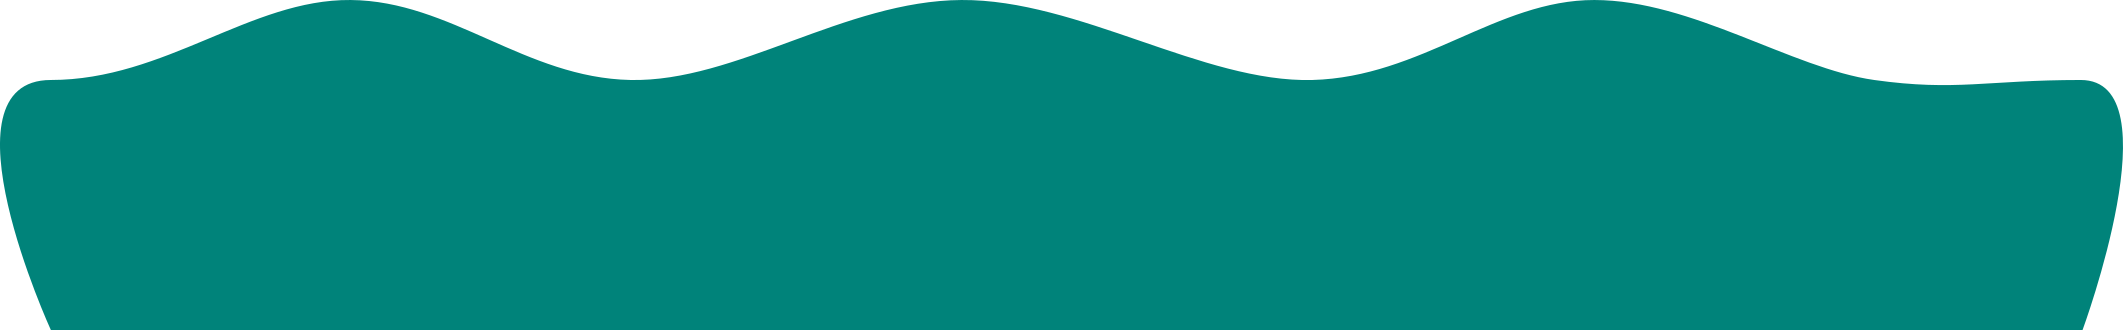
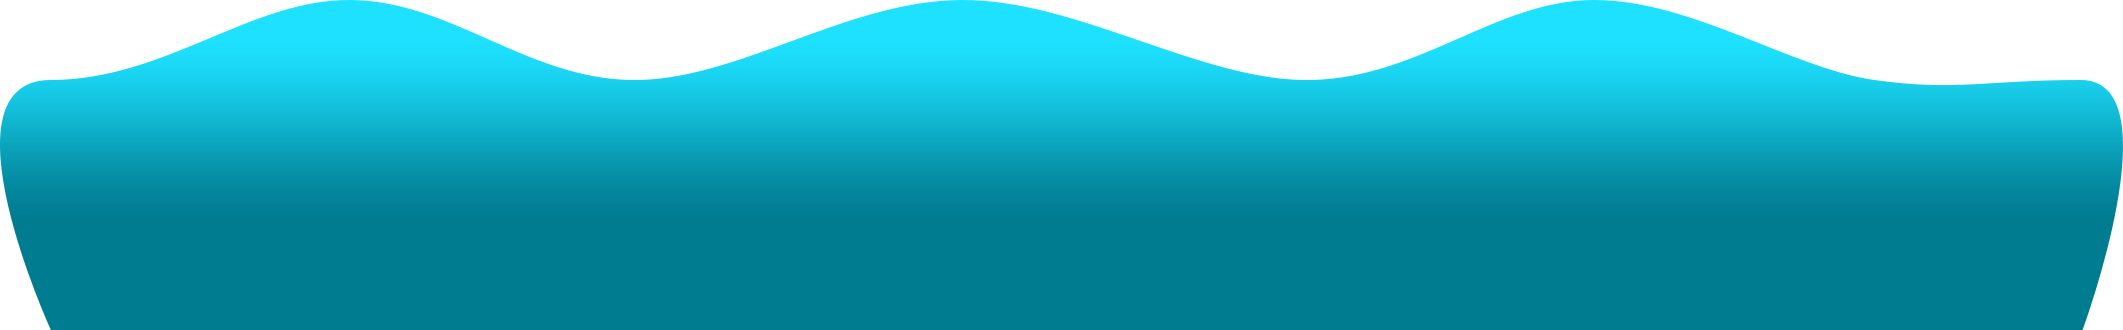
degradado

diff --git a/index.html b/index.html
@@ -8,14 +8,14 @@
         body {
             margin: 0;
             font-family: Arial, sans-serif;
-            background-color: #4bc6ff;
+            background-color: white;
         }
         .header {
             display: flex;
             justify-content: center;
             align-items: center;
             padding: 16px;
-            background: #4bc6ff;
+            background: white;
             position: relative;
         }
         .logo-container {
@@ -110,151 +110,16 @@
             height: calc(100vh - 72px);
             font-size: 2rem;
         }
-
-        /* --- Gooey Button Styles --- */
-        .gooey-options-container {
-            position: absolute;
-            top: 24px;
-            left: 24px;
-            z-index: 20;
-            width: 48px;
-            height: 48px;
-        }
-        .gooey-button-wrapper {
-            position: relative;
-            width: 48px;
-            height: 48px;
-        }
-
-        .gooey-button {
-            position: absolute;
-            top: 0;
-            left: 0;
-            width: 48px;
-            height: 48px;
-            background: #00f3a1;
-            border-radius: 12px;
-            filter: url(#goo);
-            cursor: pointer;
-            overflow: visible;
-            z-index: 1;
-            transform: scale(3);
-        }
-        .blob {
-            position: absolute;
-            width: 38px;
-            height: 38px;
-            background: #00f3a1;
-            border-radius: 50%;
-            top: 0%;
-            left: 0%;
-            transform-origin: center;
-            animation: blob-move 4s ease-in-out infinite;
-        }
-        .blob:nth-child(1) {
-            transform: translate(-60%, 100%);
-            animation-delay: 0s;
-        }
-        .blob:nth-child(2) {
-            transform: translate(100%, -60%);
-            animation-delay: 1s;
-        }
-        .blob:nth-child(3) {
-            transform: translate(0%, 15%);
-            animation-delay: 2s;
-        }
-        .blob:nth-child(4) {
-            transform: translate(-15%, 15%);
-            animation-delay: 3s;
-        }
-        .blob:nth-child(5) {
-            transform: translate(250%, -100%);
-            animation-delay: 1.5s;
-        }
-        @keyframes blob-move {
-            0%, 100% {
-                transform-origin: center;
-                scale: 1;
-            }
-            50% {
-                scale: 1.3;
-            }
-        }
         /* Imagen de opciones encima del botón */
         .options-img {
             position: absolute;
-            top: 50%;
-            left: 50%;
+            top: 0%;
+            left: 0%;
             width: 32px;
             height: 32px;
-            transform: translate(-50%, -50%);
             z-index: 2;
             pointer-events: none; /* para que los clics pasen al botón */
             user-select: none;
-        }
-        /* Popup Table */
-        .table-popup {
-            position: absolute;
-            top: 60px;
-            left: 0;
-            padding: 12px;
-            border-radius: 12px;
-            color: white;
-            display: none;
-            width: 220px;
-            user-select: none;
-            font-size: 0.95rem;
-            background: rgba(0, 20, 40, 0.97);
-            box-shadow: 0 8px 20px rgba(0,0,0,0.5);
-        }
-        .table-popup.active {
-            display: block;
-        }
-        table {
-            width: 100%;
-            border-collapse: collapse;
-        }
-        th, td {
-            border-bottom: 1px solid rgba(255,255,255,0.2);
-            padding: 6px;
-            text-align: left;
-        }
-        th {
-            font-size: 1em;
-        }
-        td {
-            font-size: 0.95em;
-        }
-        /* Responsive: opcional, para pantallas pequeñas */
-        @media (max-width: 600px) 
-        {
-            .logo-container {
-                width: 100vw;
-                min-width: 0;
-            }
-            .gooey-options-container {
-                top: 12px;
-                left: 12px;
-            }
-            .gooey-button,
-            .gooey-button-wrapper {
-                width: 38px;
-                height: 38px;
-            }
-            .options-img {
-                width: 26px;
-                height: 26px;
-            }
-            .table-popup {
-                width: 95vw;
-                left: 2vw;
-                right: auto;
-            }
-            .gooey-button-shadow,
-            .blob-shadow {
-                width: 38px;
-                height: 38px;
-            }
         }
     </style>
 </head>
@@ -263,32 +128,12 @@
         <!-- Botón de opciones gelatinoso en esquina superior izquierda con sombra debajo -->
         <div class="gooey-options-container">
             <div class="gooey-button-wrapper">
-                <!-- Botón principal -->
-                <div class="gooey-button" id="gooeyBtn" title="Opciones">
-                    <div class="blob"></div>
-                    <div class="blob"></div>
-                    <div class="blob"></div>
-                    <div class="blob"></div>
-                    <div class="blob"></div>
-                </div>
                 <img src="img/Options.png" alt="Opciones" class="options-img" draggable="false">
-            </div>
-            <div class="table-popup" id="popup">
-                <table>
-                    <thead>
-                        <tr><th>Nombre</th><th>Edad</th><th>Email</th></tr>
-                    </thead>
-                    <tbody>
-                        <tr><td>Ana</td><td>24</td><td>ana@mail.com</td></tr>
-                        <tr><td>Pedro</td><td>30</td><td>pedro@mail.com</td></tr>
-                        <tr><td>Luisa</td><td>28</td><td>luisa@mail.com</td></tr>
-                    </tbody>
-                </table>
             </div>
         </div>
         <div class="logo-container">
             <img src="img/color1.png" alt="Logo fondo" class="logo-bg">
-            <img src="img/zurnipMask.png" alt="Logo principal" class="logo-fg">
+            <img src="img/zunshinemask.png" alt="Logo principal" class="logo-fg">
             <div class="agua-wrapper">
                 <div class="agua-move">
                     <img src="img/agua2.png" alt="Agua decorativa" class="agua-img">
